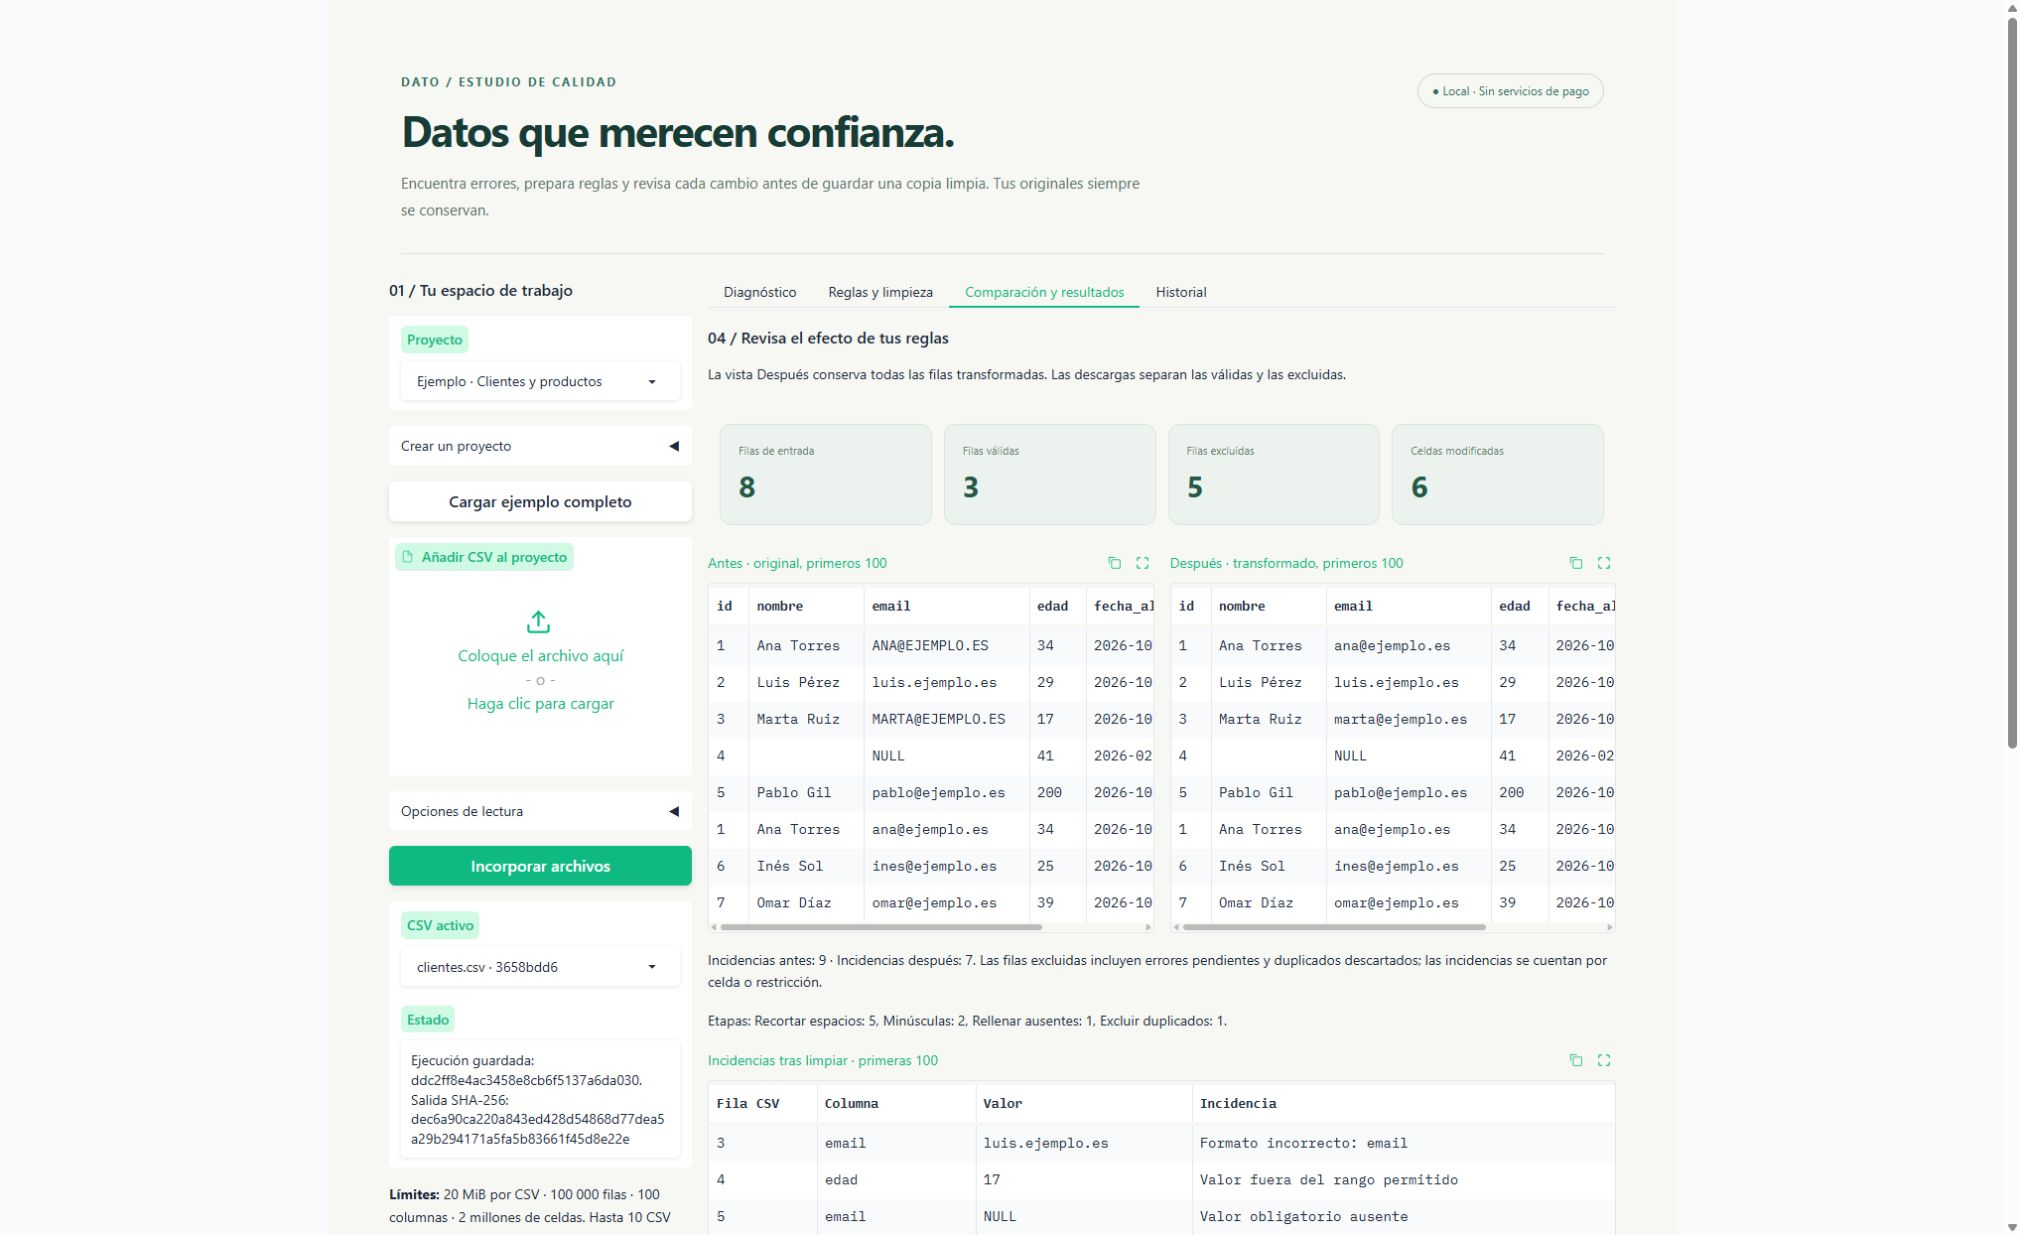
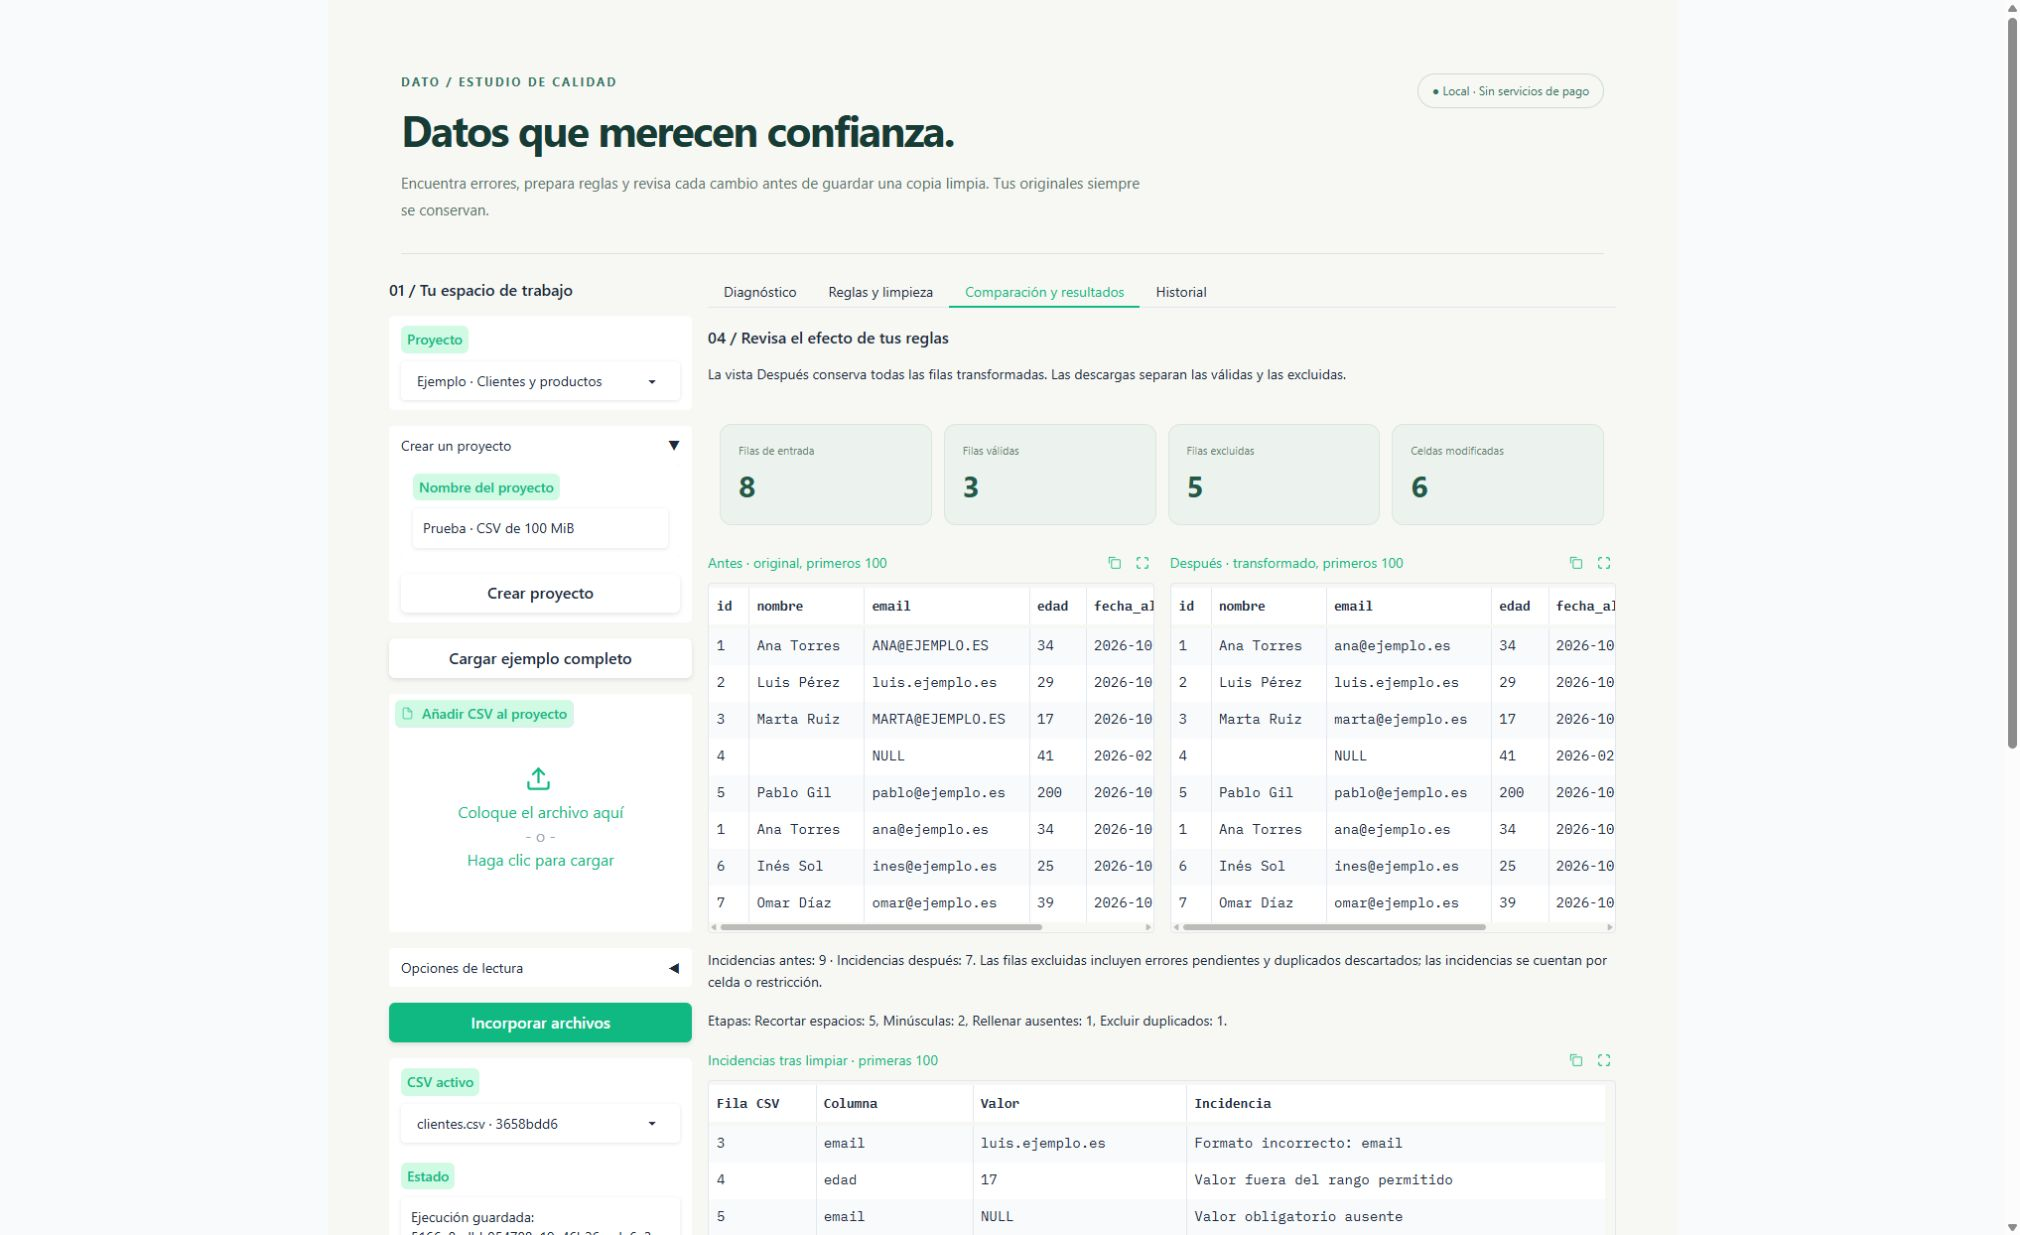
Raise CSV capacity to 100 MiB with larger row and cell limits

diff --git a/quality_studio/ui.py b/quality_studio/ui.py
@@ -10,7 +10,7 @@ os.environ["GRADIO_ANALYTICS_ENABLED"] = "False"
 os.environ["HF_HUB_DISABLE_TELEMETRY"] = "1"
 import gradio as gr
 
-from .engine import DataError, MAX_BYTES, MAX_RULE_BYTES, audit, profile, validate_rules
+from .engine import DataError, MAX_BYTES, MAX_ROWS, MAX_COLUMNS, MAX_CELLS, MAX_RULE_BYTES, audit, profile, validate_rules
 from .store import Studio
 
 ROOT = Path(__file__).resolve().parent.parent
@@ -34,7 +34,7 @@ def pretty(value):
 
 def frame(columns, rows):
     # No inferir números: conservar identificadores, ceros iniciales y valores originales.
-    return gr.Dataframe(headers=columns, value=rows[:100], datatype="str", interactive=False, type="array")
+    return gr.Dataframe(headers=columns or ["Sin datos"], value=rows[:100], datatype="str", interactive=False, type="array")
 
 
 def metrics(summary, preview=False):
@@ -108,7 +108,7 @@ def build_app(storage_root=None):
             try:
                 source = Path(path)
                 if source.stat().st_size > MAX_BYTES:
-                    raise DataError("El archivo supera 20 MiB.")
+                    raise DataError(f"El archivo supera {MAX_BYTES // (1024 * 1024)} MiB.")
                 selected = studio.add_dataset(token, source.read_bytes(), source.name, separator, encoding)
                 added += 1
             except DataError as exc:
@@ -267,7 +267,7 @@ def build_app(storage_root=None):
                 add = gr.Button("Incorporar archivos", variant="primary")
                 dataset = gr.Dropdown(choices=[], label="CSV activo", interactive=True)
                 status = gr.Textbox(label="Estado", value="Empieza con el ejemplo o crea tu proyecto.", interactive=False, lines=3)
-                gr.Markdown("**Límites:** 20 MiB por CSV · 100 000 filas · 100 columnas · 2 millones de celdas. Hasta 10 CSV por proyecto.")
+                gr.Markdown(f"**Límites:** {MAX_BYTES // (1024 * 1024)} MiB por CSV · {MAX_ROWS:,} filas · {MAX_COLUMNS} columnas · {MAX_CELLS:,} celdas. Hasta 10 CSV por proyecto.".replace(",", " "))
             with gr.Column(scale=3, min_width=480):
                 with gr.Tabs() as tabs:
                     with gr.Tab("Diagnóstico", id="diagnostic"):

diff --git a/quality_studio/store.py b/quality_studio/store.py
@@ -7,6 +7,7 @@ from contextlib import contextmanager
 from datetime import datetime, timezone
 from pathlib import Path
 
+from . import __version__
 from .engine import (DataError, MAX_BYTES, canonical, csv_bytes, digest, profile,
                      read_csv, run_pipeline, suggested_rules, validate_rules)
 
@@ -89,7 +90,7 @@ class Studio:
         if not path.is_file():
             raise DataError("Falta la copia original de este CSV.")
         if path.stat().st_size > MAX_BYTES:
-            raise DataError("La copia original supera 20 MiB. Carga un CSV dentro del límite.")
+            raise DataError(f"La copia original supera {MAX_BYTES // (1024 * 1024)} MiB. Carga un CSV dentro del límite.")
         raw = path.read_bytes()
         if digest(raw) != info["sha256"]:
             raise DataError("La copia original ha cambiado fuera de la aplicación. Carga el archivo de nuevo como otra versión.")
@@ -143,7 +144,7 @@ class Studio:
         destination = runs / token
         clean = csv_bytes(dataset.columns, result["clean"])
         rules_hash = digest(canonical(result["rules"]).encode("utf-8"))
-        report = {"version": 1, "engine_version": "1.0.0", "run_id": token, "created_at": created,
+        report = {"version": 1, "engine_version": __version__, "run_id": token, "created_at": created,
                   "dataset": dataset.name, "input_sha256": dataset.sha256, "rules_sha256": rules_hash,
                   "output_sha256": digest(clean), "summary": result["summary"], "stages": result["stages"],
                   "profile_before": result["before"], "profile_after": result["after"],

diff --git a/quality_studio/engine.py b/quality_studio/engine.py
@@ -10,10 +10,10 @@ from dataclasses import dataclass
 from datetime import datetime
 from decimal import Decimal, InvalidOperation
 
-MAX_BYTES = 20 * 1024 * 1024
-MAX_ROWS = 100_000
+MAX_BYTES = 100 * 1024 * 1024
+MAX_ROWS = 500_000
 MAX_COLUMNS = 100
-MAX_CELLS = 2_000_000
+MAX_CELLS = 5_000_000
 MAX_RULE_BYTES = 100_000
 MAX_ISSUES = 20_000
 MISSING = ["", "NULL", "N/A"]
@@ -46,7 +46,7 @@ class Dataset:
 
 def read_csv(raw, name="datos.csv", delimiter="auto", encoding="utf-8-sig"):
     if not raw or len(raw) > MAX_BYTES:
-        raise DataError("El CSV está vacío o supera 20 MiB.")
+        raise DataError(f"El CSV está vacío o supera {MAX_BYTES // (1024 * 1024)} MiB.")
     if encoding not in {"utf-8-sig", "cp1252"}:
         raise DataError("Codificación no admitida.")
     try:
@@ -77,7 +77,7 @@ def read_csv(raw, name="datos.csv", delimiter="auto", encoding="utf-8-sig"):
                 raise DataError(f"El registro {len(rows) + 2} tiene un número de columnas incorrecto.")
             rows.append(row)
             if len(rows) > MAX_ROWS or len(rows) * len(columns) > MAX_CELLS:
-                raise DataError("El CSV supera 100 000 filas o 2 millones de celdas.")
+                raise DataError(f"El CSV supera {MAX_ROWS:,} filas o {MAX_CELLS:,} celdas.".replace(",", " "))
         if not rows:
             raise DataError("El CSV solo contiene la cabecera; añade al menos una fila.")
     except (csv.Error, StopIteration) as exc:

diff --git a/tests/test_engine.py b/tests/test_engine.py
@@ -157,3 +157,23 @@ class MissingValueTests(unittest.TestCase):
         self.assertEqual(result["rows"][0][0], "NULL")
         self.assertEqual(result["issues"][0]["message"], "Valor obligatorio ausente")
         self.assertEqual(result["clean"], [["a@example.com"]])
+
+
+class LargerCsvTests(unittest.TestCase):
+    def test_accepts_csv_above_previous_size_and_row_limits_without_truncation(self):
+        payload = "x" * 200
+        raw = ("id,contenido\n" + "".join(f"{i:06d},{payload}\n" for i in range(110_000))).encode()
+        self.assertGreater(len(raw), 20 * 1024 * 1024)
+        data = read_csv(raw)
+        self.assertEqual(len(data.rows), 110_000)
+        self.assertEqual(data.rows[-1][0], "109999")
+
+    def test_accepts_more_than_previous_cell_limit_and_enforces_boundary(self):
+        header = ",".join(f"c{i}" for i in range(21)) + "\n"
+        raw = (header + (",".join(["1"] * 21) + "\n") * 100_001).encode()
+        self.assertEqual(len(read_csv(raw).rows), 100_001)
+        # Un límite reducido comprueba la frontera real sin crear millones de celdas en CI.
+        with patch("quality_studio.engine.MAX_CELLS", 4):
+            self.assertEqual(len(read_csv(b"a,b\n1,2\n3,4\n").rows), 2)
+            with self.assertRaises(DataError):
+                read_csv(b"a,b\n1,2\n3,4\n5,6\n")

diff --git a/app.py b/app.py
@@ -9,6 +9,7 @@ ROOT = Path(__file__).resolve().parent
 os.environ["GRADIO_TEMP_DIR"] = str(ROOT / ".private" / "gradio-cache")
 
 from quality_studio.ui import CSS, build_app
+from quality_studio.engine import MAX_BYTES
 import gradio as gr
 
 
@@ -19,7 +20,7 @@ def main():
     app = build_app()
     app.queue(default_concurrency_limit=1, max_size=8)
     app.launch(server_name="127.0.0.1", server_port=args.port, share=False, inbrowser=False,
-               show_error=False, footer_links=[], max_file_size=20 * 1024 * 1024, css=CSS,
+               show_error=False, footer_links=[], max_file_size=MAX_BYTES, css=CSS,
                theme=gr.themes.Soft(primary_hue="emerald", neutral_hue="slate", font=["Segoe UI", "Arial", "sans-serif"]),
                blocked_paths=[str(ROOT / ".git"), str(ROOT / ".venv"), str(ROOT / ".private" / "data" / "studio.sqlite3")])
 

diff --git a/tests/test_app.py b/tests/test_app.py
@@ -64,3 +64,13 @@ class GradioIntegrationTests(unittest.TestCase):
         saved_view = self.client.predict(dataset, rules, api_name="/save_rules")
         self.assertIn("Contrato guardado", saved_view[11])
         self.assertIn("8 filas", saved_view[4])
+
+
+    def test_empty_project_and_no_selected_csv_have_valid_empty_views(self):
+        workspace_update, _ = self.client.predict("Proyecto vacío", api_name="/create_workspace")
+        datasets, _, _, _ = self.client.predict(workspace_update["value"], api_name="/select_workspace")
+        self.assertIsNone(datasets["value"])
+        view = self.client.predict(None, api_name="/load_dataset")
+        self.assertEqual(view[0], "")
+        self.assertEqual(view[2].get("value", view[2])["data"], [])
+        self.assertEqual(view[12].get("value", view[12])["data"], [])

diff --git a/quality_studio/__init__.py b/quality_studio/__init__.py
@@ -1,3 +1,3 @@
 """Motor local de calidad de datos, independiente de Gradio."""
 
-__version__ = "1.0.0"
+__version__ = "1.1.0"

diff --git a/README.md b/README.md
@@ -4,7 +4,7 @@
 
 Una aplicación con **Gradio, Python y SQLite** para diagnosticar CSV, preparar contratos de datos y guardar ejecuciones reproducibles. Funciona en tu ordenador, sin claves de API ni servicios de pago.
 
-**Versión 1.0.0.** El análisis es determinista: no utiliza un modelo de IA ni inventa valores para corregir errores. Gradio aporta la interfaz y las conexiones entre controles y servicios Python.
+**Versión 1.1.0.** El análisis es determinista: no utiliza un modelo de IA ni inventa valores para corregir errores. Gradio aporta la interfaz y las conexiones entre controles y servicios Python.
 
 ![Diagnóstico y limpieza en la aplicación](docs/aplicacion.png)
 
@@ -120,15 +120,19 @@ flowchart LR
 
 | Recurso | Límite |
 | --- | --- |
-| Tamaño de un CSV | 20 MiB |
-| Filas por CSV | 100 000 |
+| Tamaño de un CSV | 100 MiB |
+| Filas por CSV | 500 000 |
 | Columnas | 100 |
-| Celdas | 2 millones |
+| Celdas | 5 millones |
 | Incidencias en una ejecución | 20 000; si se superan, se pide dividir el CSV o revisar reglas |
 | CSV por proyecto | 10 distintos; el mismo contenido no se duplica |
 | Contrato JSON | 100 KB |
 | Vista previa | Primeros 100 registros; el motor analiza el conjunto completo dentro de los límites |
 | Historial visible | Últimas 100 ejecuciones por proyecto; las anteriores permanecen en disco |
+
+Verificación manual: un CSV sintético de 104 856 013 bytes (casi 100 MiB), con 257 000 filas, se ha subido desde el navegador, procesado y exportado completo; se ha comprobado el número de filas y el SHA-256 de la salida.
+
+Los archivos se procesan en memoria. Los CSV grandes tardan más y pueden consumir varios GB de RAM; la cantidad depende de las filas, columnas y longitud de los valores. El tamaño permitido no garantiza que cualquier estructura quepa en los otros límites.
 
 El límite adicional de un campo CSV es un millón de caracteres. No se procesan XLSX, PDF, bases de datos remotas ni múltiples hojas. No se hacen uniones entre CSV ni se entrenan modelos de IA.
 
@@ -147,7 +151,7 @@ Para copiar o respaldar un proyecto, detén el servidor y conserva la carpeta `.
 .venv\Scripts\python.exe -m pip check
 ```
 
-La suite incluye **32 pruebas**, entre ellas el flujo HTTP real de Gradio. GitHub Actions instala las dependencias fijadas y ejecuta las pruebas al actualizar `main` o abrir una pull request. Se comprueban errores CSV, codificaciones, límites, validación de reglas, transformaciones, exportación segura, reproducibilidad, conservación de originales, reapertura del historial y fallos de escritura. La integración de Gradio usa un servidor local temporal y datos sintéticos.
+La suite incluye **35 pruebas**, entre ellas el flujo HTTP real de Gradio. GitHub Actions instala las dependencias fijadas y ejecuta las pruebas al actualizar `main` o abrir una pull request. Se comprueban errores CSV, codificaciones, límites, validación de reglas, transformaciones, exportación segura, reproducibilidad, conservación de originales, reapertura del historial y fallos de escritura. La integración de Gradio usa un servidor local temporal y datos sintéticos.
 
 ## Problemas frecuentes
 

diff --git a/CHANGELOG.md b/CHANGELOG.md
@@ -1,5 +1,12 @@
 # Historial de versiones
 
+## 1.1.0 · 2026-10-18
+
+- CSV de hasta 100 MiB, 500 000 filas y 5 millones de celdas.
+- Límite de subida de Gradio compartido con el motor, con mensajes y documentación actualizados.
+- Corregida la representación de tablas vacías al crear un proyecto sin CSV.
+- Se conservan las 100 columnas, las 20 000 incidencias y la vista previa de 100 registros.
+
 ## 1.0.0 · 2026-10-18
 
 - Estudio local con Gradio, proyectos con varios CSV y contratos declarativos JSON.
